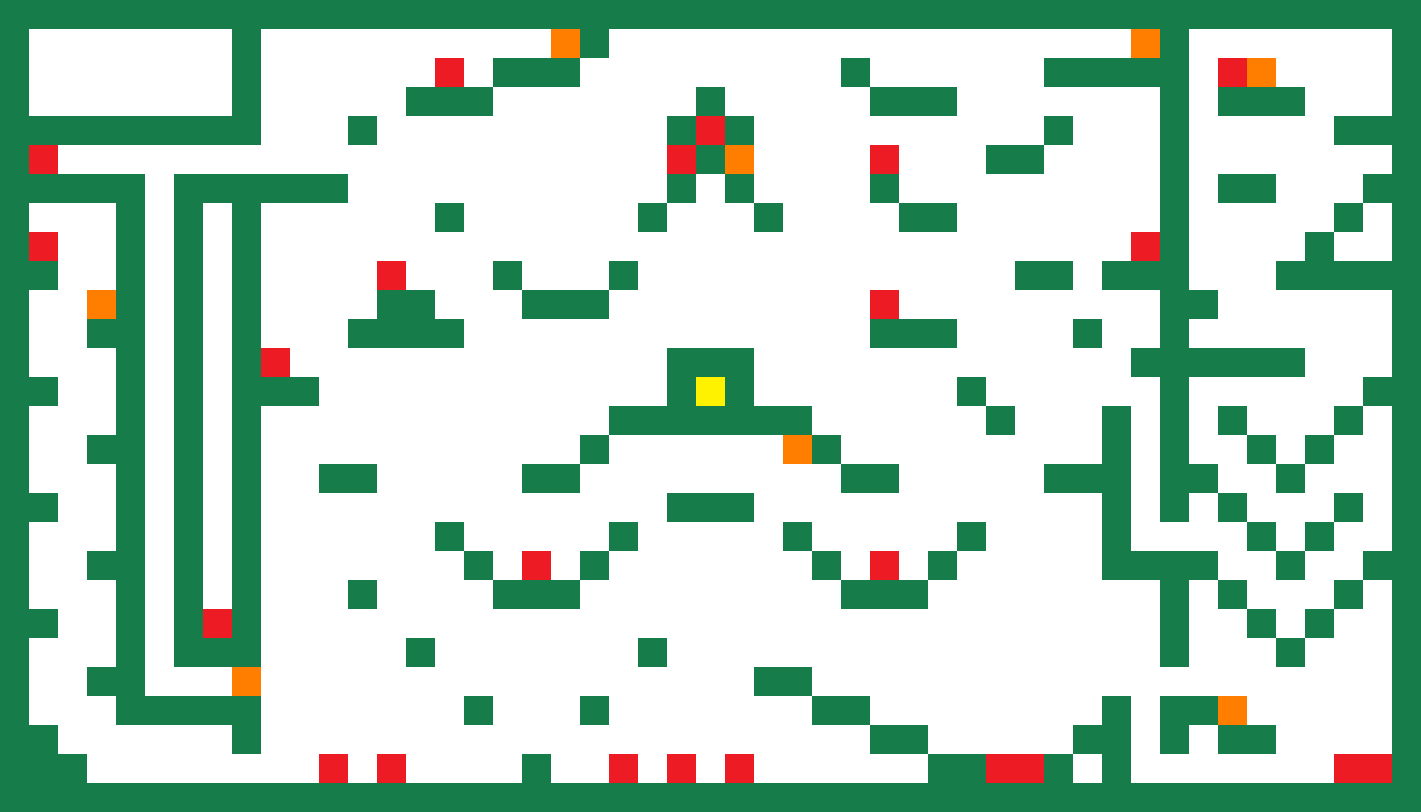
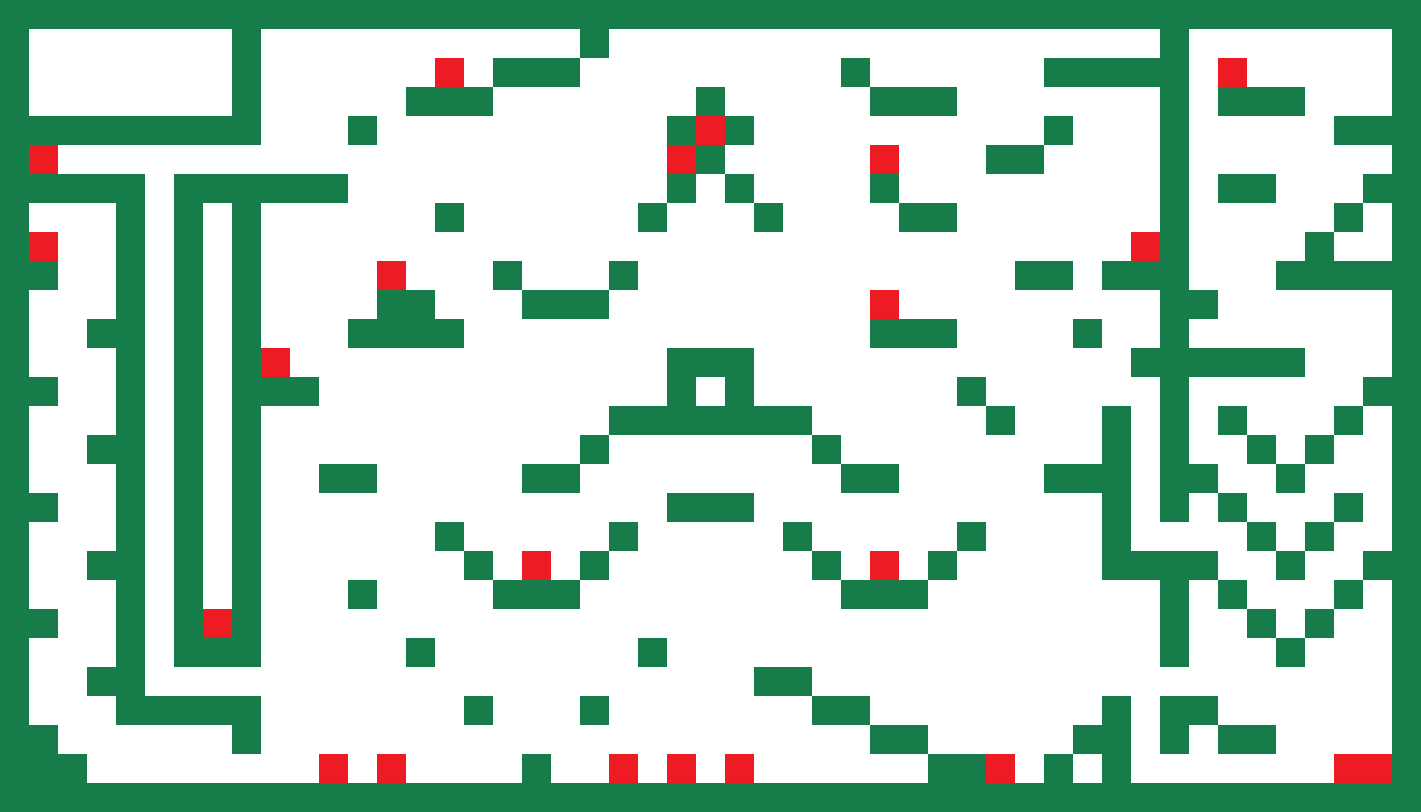
added jump to right key + removed one fire trap

diff --git a/get_elements.py b/get_elements.py
@@ -66,7 +66,7 @@ def get_fruits():
 
 def get_fire_traps():
     fire_coords = [(2, 9), (8, 22), (12, 27), (14, 27), (22, 27), (24, 27), 
-                   (26, 27), (35, 27), (36, 27), (47, 27), (48, 27), (35, 27), 
+                   (26, 27), (35, 27), (47, 27), (48, 27), (35, 27), 
                    (19, 20), (31, 20), (10, 14), (14, 11), (31, 10), (24, 6), 
                    (25, 5), (31, 6), (40, 9), (43, 3), (16, 3), (2, 6)]
 

diff --git a/game.py b/game.py
@@ -135,7 +135,7 @@ def run_game(window):
                 run = False
                 break
             if event.type == pygame.KEYDOWN:
-                if event.key == pygame.K_SPACE and player.jump_count < 2 and not player.hit:
+                if (event.key == pygame.K_SPACE or event.key == pygame.K_UP) and player.jump_count < 2 and not player.hit:
                     player.jump()
 
         player.loop(FPS)
